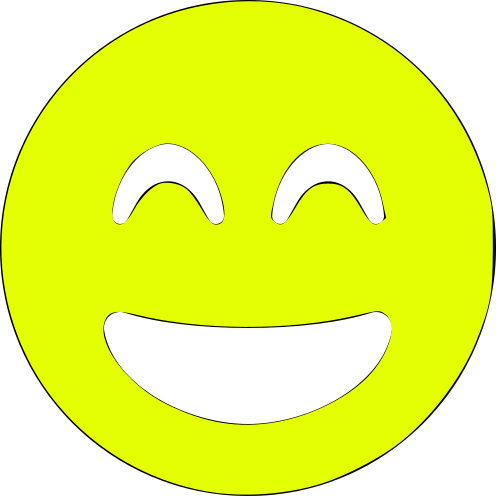
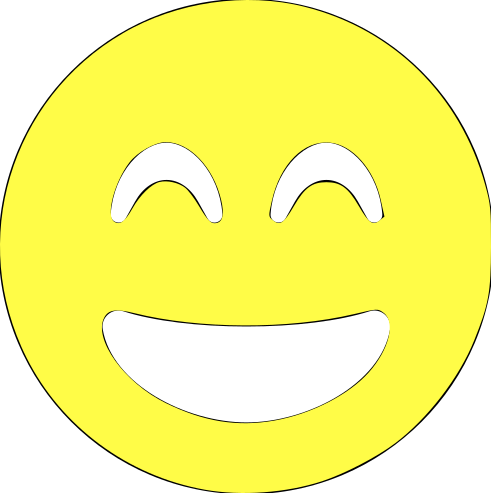
index.html + style.css: correction esthetique

diff --git a/_3_software/IoT_EPS/data/index.html b/_3_software/IoT_EPS/data/index.html
@@ -25,20 +25,20 @@
                     <!-- Plug Selector -->
                     <div class="col-md-6">
                         <ul class="nav nav-tabs justify-content-start" role="tablist">
-                            <li class="nav-item m-2 bg-danger"><a class="nav-link" href="#redPlug" data-toggle="tab" role="tab" aria-controls="home" aria-selected="true" >Prise Rouge</a></li>
-                            <li class="nav-item m-2 bg-success"><a class="nav-link" href="#greenPlug">Prise Verte</a></li>
-                            <li class="nav-item m-2 bg-primary"><a class="nav-link" href="#bluePlug">Prise Bleu</a></li>
-                            <li class="nav-item m-2 bg-warning"><a class="nav-link" href="#yellowPlug">Prise Jaune</a></li>
+                            <li class="nav-item m-2 bg-danger"><a class="nav-link text-dark" href="#redPlug" data-toggle="tab" role="tab" aria-controls="home" aria-selected="true" >Prise Rouge</a></li>
+                            <li class="nav-item m-2 bg-success"><a class="nav-link text-dark" href="#greenPlug">Prise Verte</a></li>
+                            <li class="nav-item m-2 bg-primary"><a class="nav-link text-dark" href="#bluePlug">Prise Bleu</a></li>
+                            <li class="nav-item m-2 bg-warning"><a class="nav-link text-dark" href="#yellowPlug">Prise Jaune</a></li>
                         </ul>
                     </div>
 
                     <!-- menu liens externe -->
                     <div class="col-md-6">
                         <ul class="nav justify-content-end">
-                            <li class="nav-item m-2"><a href="help.html">Page principale</a></li>
-                            <li class="nav-item m-2"><a href="help.html">Help</a></li>
-                            <li class="nav-item m-2"><a href=#!>Time</a></li>
-                            <li class="nav-item m-2"><a href=#!>Configuration générale</a></li>
+                            <li class="nav-item m-2"><a class="text-dark" href="help.html">Page principale</a></li>
+                            <li class="nav-item m-2"><a class="text-dark" href="help.html">Help</a></li>
+                            <li class="nav-item m-2"><a class="text-dark" href=#!>Time</a></li>
+                            <li class="nav-item m-2"><a class="text-dark" href=#!>Configuration générale</a></li>
                         </ul>
                     </div>
                 </nav>
@@ -501,39 +501,39 @@
                                         <input type="hidden" name="clonedPlug" value="null">
                                         <div class="row">
                                             <br>
-                                            <div class="div_cloneRed col-md-3">
+                                            <div class="div_cloneRed col-md-4">
                                                 <input
                                                     type="image"
                                                     src="img/red.png"
                                                     class="redPlug Clone Red toCloneBTN">
-                                                <br>
-                                                <span>Prise Rouge</span>
+                                                <!-- <br>
+                                                <span>Prise Rouge</span> -->
                                             </div>
-                                            <div class="div_cloneGreen col-md-3">
+                                            <div class="div_cloneGreen col-md-4">
                                                 <input 
                                                     type="image"
                                                     name="clonedPlug"
                                                     value="greenPlug"
                                                     src="img/green.png"
                                                     class="redPlug Clone Green toCloneBTN">
-                                                <br>
-                                                <span>Prise verte</span>
+                                                <!-- <br>
+                                                <span>Prise verte</span> -->
                                             </div>
-                                            <div class="div_cloneBlue col-md-3">
+                                            <div class="div_cloneBlue col-md-4">
                                                 <input 
                                                     type="image"
                                                     src="img/blue.png"
                                                     class="redPlug Clone Blue toCloneBTN">
-                                                <br>
-                                                <span>Prise bleue</span>
+                                                <!-- <br>
+                                                <span>Prise bleue</span> -->
                                             </div>
-                                            <div class="div_cloneYellow col-md-3">
+                                            <div class="div_cloneYellow col-md-4">
                                                 <input 
                                                     type="image"
                                                     src="img/yellow.png"
                                                     class="redPlug Clone Yellow toCloneBTN">
-                                                <br>
-                                                <span>Prise jaune</span>
+                                                <!-- <br>
+                                                <span>Prise jaune</span> -->
                                             </div>
                                         </div>
                                         <!-- Submit / Reset -->

diff --git a/_3_software/IoT_EPS/data/css/style.css b/_3_software/IoT_EPS/data/css/style.css
@@ -22,8 +22,14 @@ input::placeholder{
     color: blue;
 }
 
+[type="checkbox"] + span:not(.lever){
+    padding-left: 20px !important;
+    margin-left: 10px !important;
+}
+
 .bg-gris{
-    background-color: #aeb6bf;
+    /* background-color: #aeb6bf; */
+    background-color: #d6eaf8;
 }
 
 .bg-lynch{
@@ -32,6 +38,10 @@ input::placeholder{
 
 .bg-hoki{
     background-color: #67809f;
+}
+
+.bg-warning{
+    background-color: #fffc47 !important;
 }
 
 .nav-link {
@@ -52,7 +62,8 @@ input::placeholder{
 }
 
 .yellowPlug fieldset{
-    color: #e4ff02 !important; 
+    /* color: #e4ff02 !important;  */
+    color: #fffc47 !important; 
 }
 
 /* .colorRed{
@@ -77,12 +88,6 @@ input::placeholder{
     text-align: center;
 }
 
-/* .form_error { 
-    display: inline-block; 
-    color: #FF4F4F;
-    padding: 10px; 
-} */
-
 .infobulle{
     position: absolute;
     background: #FF4F4F;
@@ -94,27 +99,32 @@ input::placeholder{
     text-align: center;
 }
 
-.plugSelector{
-    /* background: #ecf0f1; */
-}
+/* .plugSelector{
+    background: #ecf0f1;
+} */
 
-.Red, .Green, .Blue, .Yellow {
+/* .Red, .Green, .Blue, .Yellow {
     max-width: 150px;
-}
+    max-width: 25%;
+    max-height: auto;
+} */
 
 .div_cloneRed, .div_cloneGreen, .div_cloneBlue, .div_cloneYellow {
     text-align: center;
+
 }
 
 .toCloneBTN{
+    max-width: 25%;
+    max-height: auto;
     cursor: pointer;
-    outline: none;
+    /* outline: none; */
     color: #fff;
-    background-color: #DCC6E0;
-    /* border: 1px ridge black; */
+    /* background-color: #c7d0d4; */
+    /* background-color: #d7dbdd; */
     padding: 5px 5px;
-    border-radius: 15px;
-    box-shadow: 9px 9px #999;
+    border-radius: 50%;
+    /* box-shadow: 9px 9px #999; */
 }
 
 .toCloneBTN:hover {background-color: #ab69c6}

diff --git a/_3_software/IoT_EPS/data/js/main.js b/_3_software/IoT_EPS/data/js/main.js
@@ -312,6 +312,11 @@ $(red.cloneForm).on(
 /*
  * ## TODO
  *
+ * #. Finir les fonction "clear". Les appliquer sur chaque chagement de mode, changement de prise
+ *    et entre chaque action du mode manuel
+ *
+ * ####
+ *
  * #. Chagement de class automatique
  * 
  * ####
